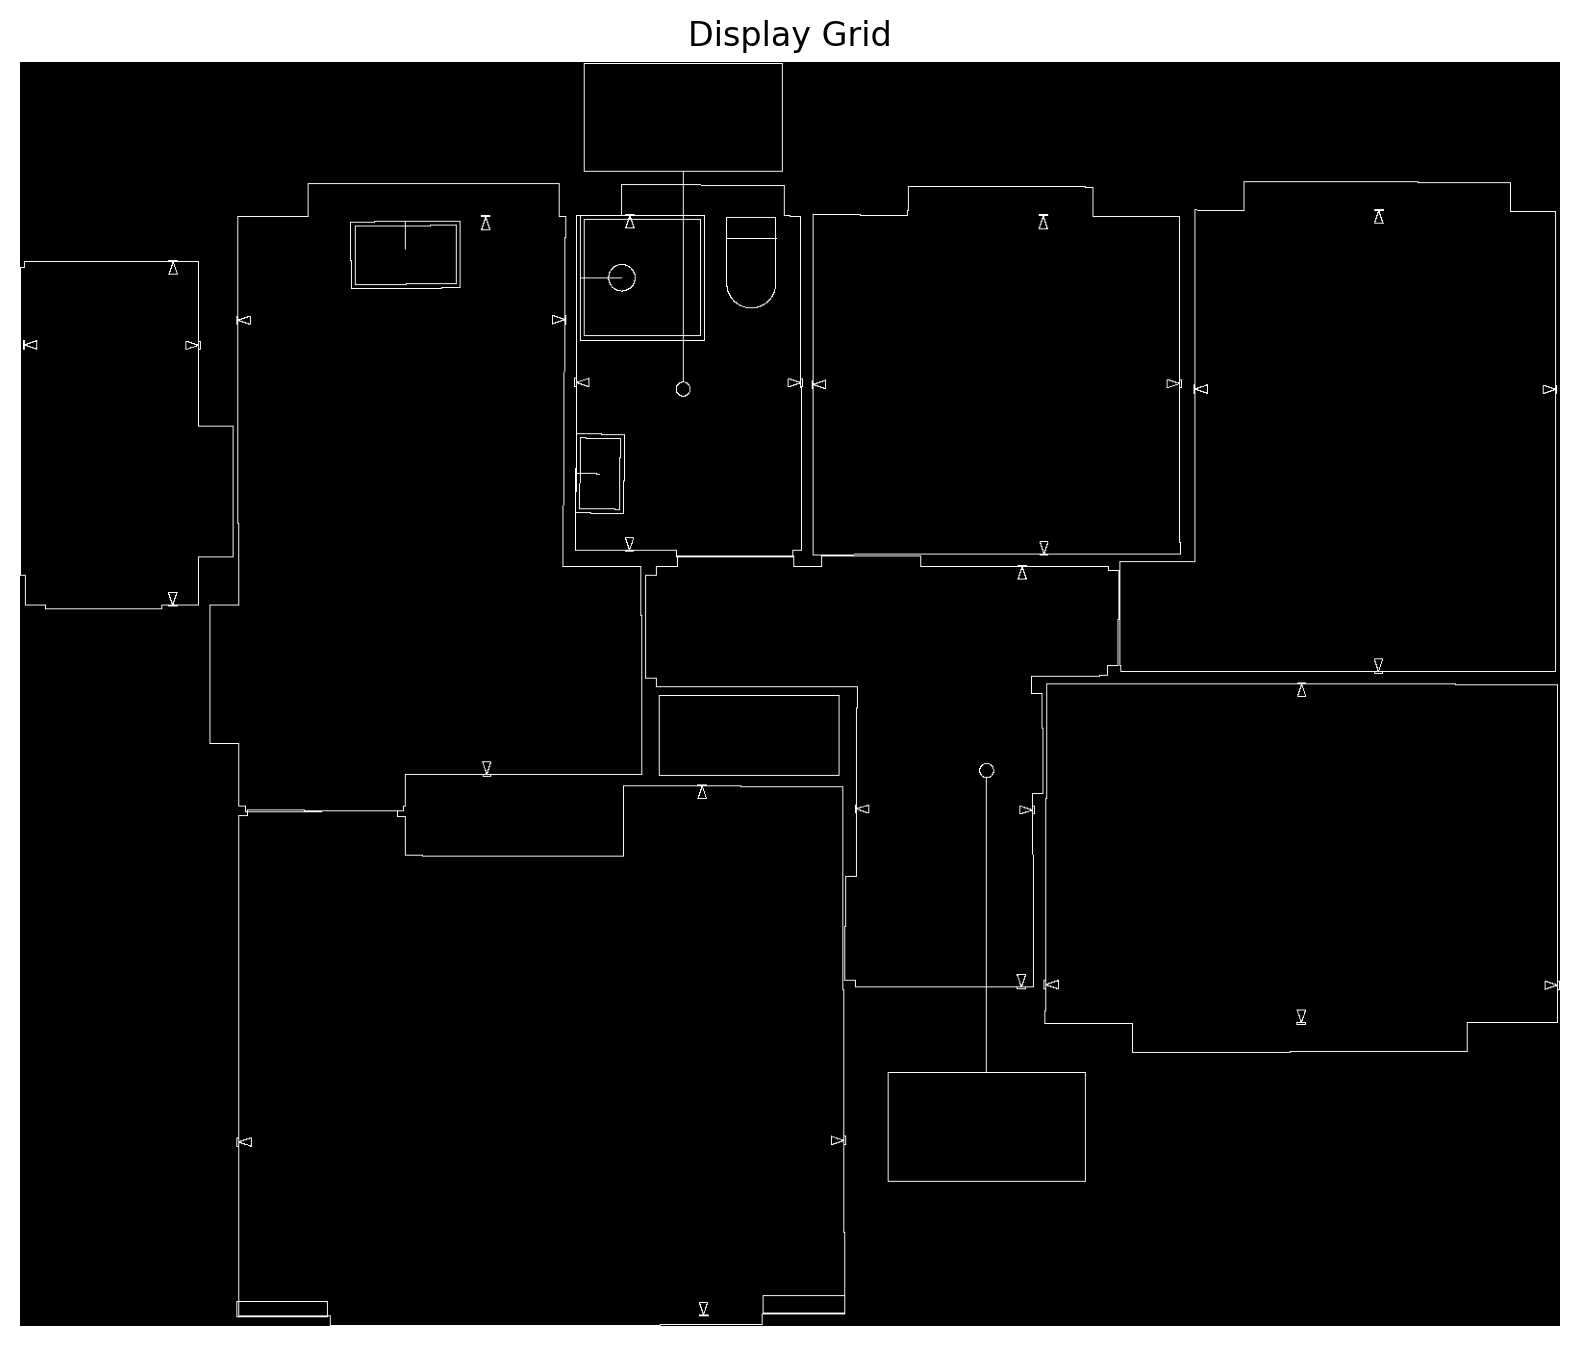
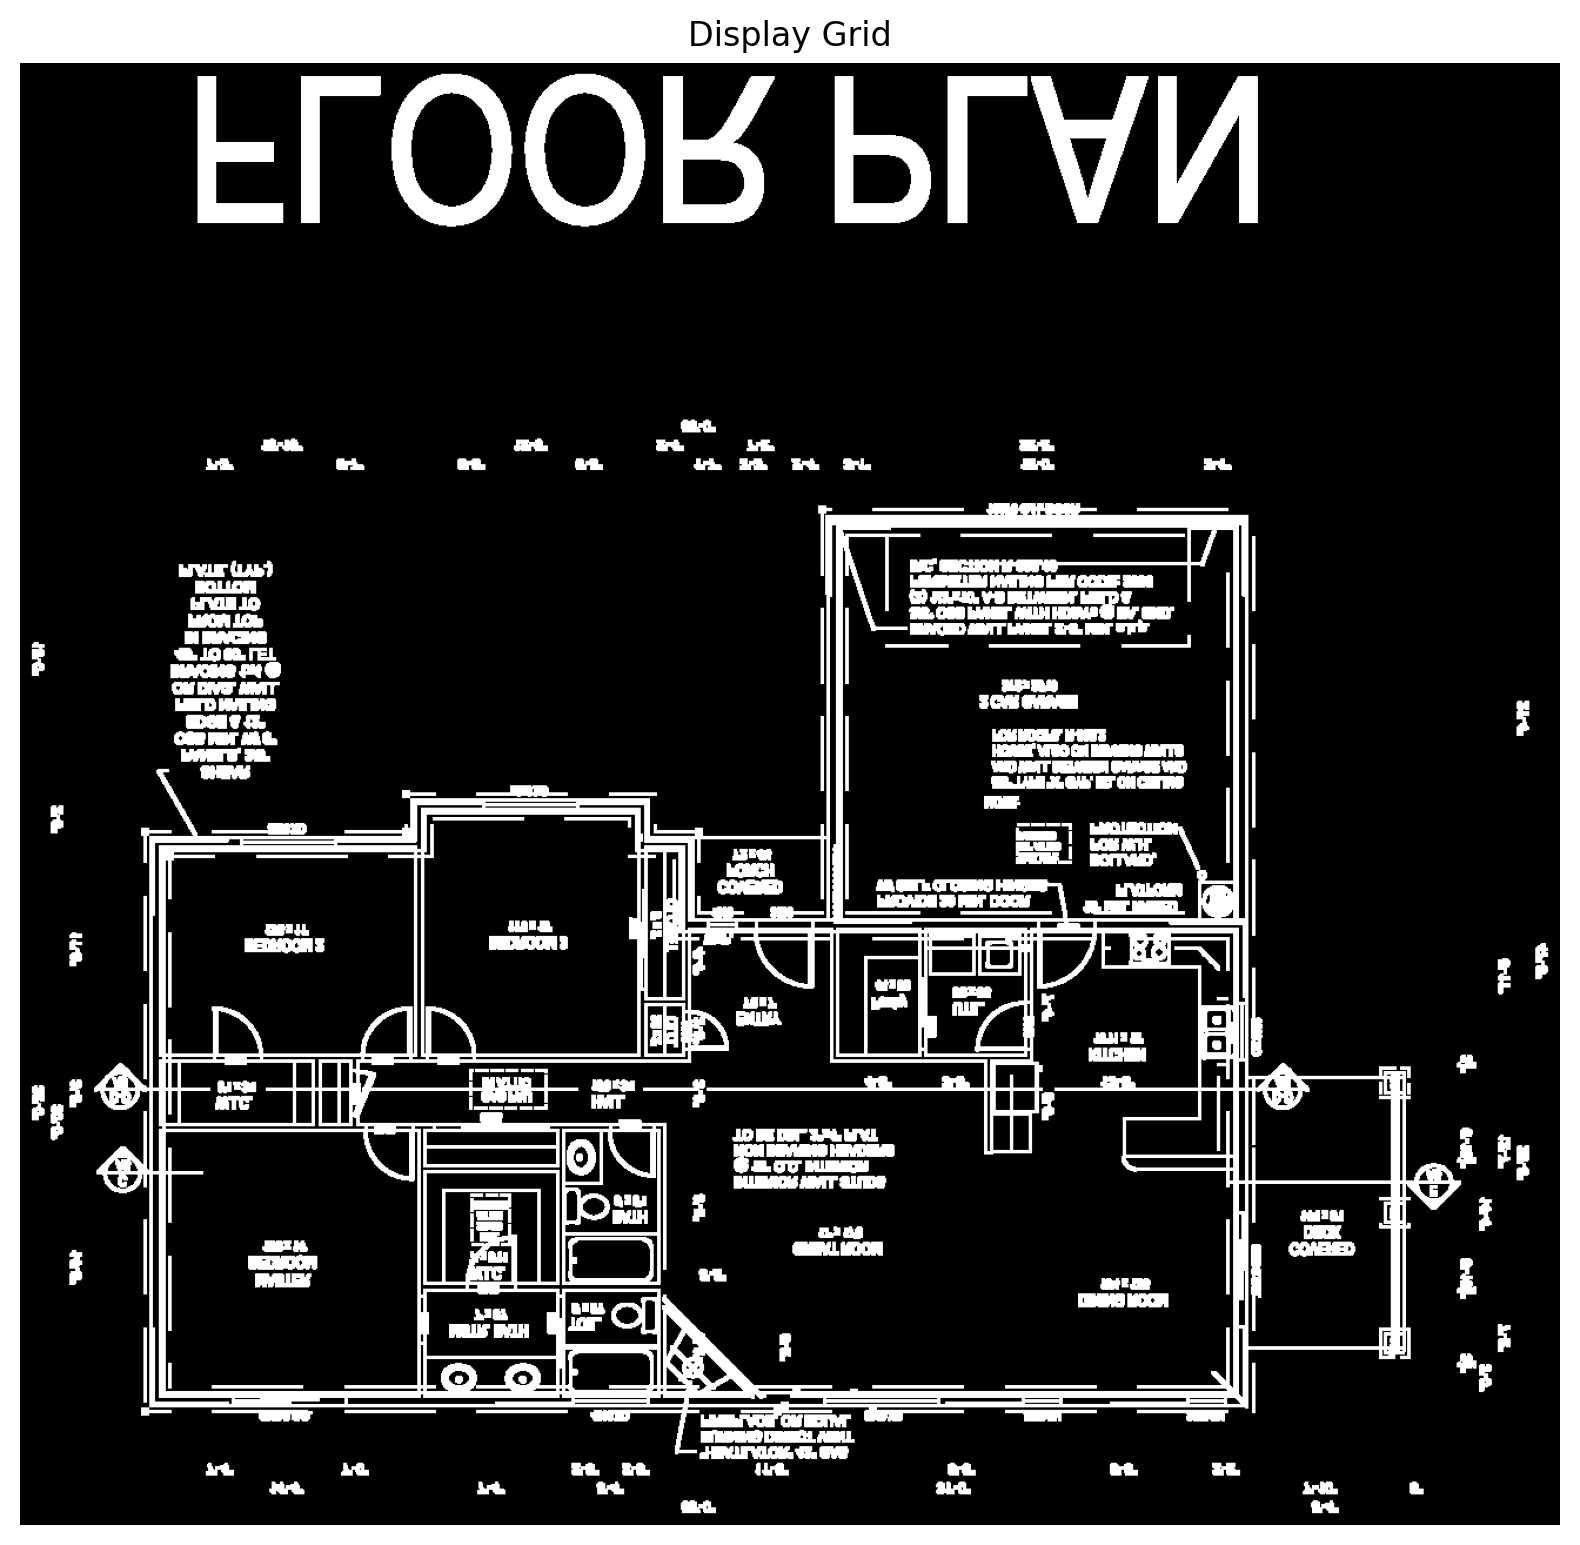
UI setup

diff --git a/templates/index.html b/templates/index.html
@@ -344,7 +344,7 @@
     <!-- Run -->
     <div class="card">
       <h2>Pipeline</h2>
-      <p style="font-size:13px;color:#718096;line-height:1.6;">Extracts 3D wall faces from the DXF, flattens them to 2D, and rasterizes a binary wall grid.</p>
+      <p style="font-size:13px;color:#718096;line-height:1.6;">Auto-detects DXF entity types and chooses the best strategy (vector or render) to produce a binary wall grid.</p>
       <button class="btn btn-primary" id="runBtn" onclick="runPipeline()">▶ Run Pipeline</button>
 
       <div class="status-box" id="statusBox"></div>
@@ -357,19 +357,35 @@
     <div class="card" id="downloadCard" style="display:none;">
       <h2>Download Outputs</h2>
       <div class="download-list">
-        <a class="download-item" href="/api/download/grid" download>
+        <a class="download-item" href="/api/download/grid_display" download>
           <span class="icon">🔢</span>
           <div>
+            <div class="name">grid_display.npy</div>
+            <div class="desc">High-res display grid (NumPy array)</div>
+          </div>
+          <span class="arrow">↓</span>
+        </a>
+        <a class="download-item" href="/api/download/meta_display" download>
+          <span class="icon">📋</span>
+          <div>
+            <div class="name">grid_display_meta.json</div>
+            <div class="desc">Display grid scale &amp; bounds metadata</div>
+          </div>
+          <span class="arrow">↓</span>
+        </a>
+        <a class="download-item" href="/api/download/grid" download>
+          <span class="icon">🗜</span>
+          <div>
             <div class="name">grid.npy</div>
-            <div class="desc">Binary wall grid (NumPy array)</div>
+            <div class="desc">Optimization grid (4× downsampled)</div>
           </div>
           <span class="arrow">↓</span>
         </a>
         <a class="download-item" href="/api/download/meta" download>
-          <span class="icon">📋</span>
+          <span class="icon">📄</span>
           <div>
             <div class="name">grid_meta.json</div>
-            <div class="desc">Scale, bounds &amp; crop metadata</div>
+            <div class="desc">Optimization grid metadata</div>
           </div>
           <span class="arrow">↓</span>
         </a>
@@ -381,13 +397,27 @@
   <!-- Right column: preview + meta -->
   <div class="preview-panel">
 
+    <!-- Preview toggle tabs -->
+    <div id="previewTabs" style="display:none; gap:8px; margin-bottom:-4px;">
+      <button onclick="switchPreview('display')" id="tabDisplay"
+        style="padding:6px 14px;border-radius:6px 6px 0 0;border:1px solid #2d3748;border-bottom:none;
+               background:#1a1f2e;color:#4facfe;font-size:12px;font-weight:600;cursor:pointer;">
+        Display
+      </button>
+      <button onclick="switchPreview('opt')" id="tabOpt"
+        style="padding:6px 14px;border-radius:6px 6px 0 0;border:1px solid #2d3748;border-bottom:none;
+               background:#0f1117;color:#718096;font-size:12px;font-weight:600;cursor:pointer;">
+        Optimization (4×↓)
+      </button>
+    </div>
+
     <div class="preview-wrap" id="previewWrap">
       <div class="placeholder" id="previewPlaceholder">
         <div class="big-icon">🏠</div>
         <p>Run the pipeline to see the wall grid preview</p>
       </div>
       <img id="previewImg" alt="Grid preview" style="display:none;" />
-      <span class="preview-label" id="previewLabel" style="display:none;">Grid Preview</span>
+      <span class="preview-label" id="previewLabel" style="display:none;">Display Grid</span>
     </div>
 
     <div class="legend" id="legendRow" style="display:none;">
@@ -498,8 +528,33 @@
       .catch(() => {});
   }
 
+  let activePreview = 'display';
+
+  function switchPreview(type) {
+    activePreview = type;
+    const img = document.getElementById('previewImg');
+    const label = document.getElementById('previewLabel');
+    if (type === 'display') {
+      img.src = '/api/preview?ts=' + Date.now();
+      label.textContent = 'Display Grid';
+      document.getElementById('tabDisplay').style.background = '#1a1f2e';
+      document.getElementById('tabDisplay').style.color = '#4facfe';
+      document.getElementById('tabOpt').style.background = '#0f1117';
+      document.getElementById('tabOpt').style.color = '#718096';
+    } else {
+      img.src = '/api/preview/opt?ts=' + Date.now();
+      label.textContent = 'Optimization Grid (4× downsampled)';
+      document.getElementById('tabOpt').style.background = '#1a1f2e';
+      document.getElementById('tabOpt').style.color = '#4facfe';
+      document.getElementById('tabDisplay').style.background = '#0f1117';
+      document.getElementById('tabDisplay').style.color = '#718096';
+    }
+  }
+
   function loadResults(data) {
-    // Show preview
+    // Show preview tabs and default to display preview
+    const tabs = document.getElementById('previewTabs');
+    tabs.style.display = 'flex';
     const img = document.getElementById('previewImg');
     img.src = '/api/preview?ts=' + Date.now();
     img.style.display = 'block';

diff --git a/app.py b/app.py
@@ -1,16 +1,17 @@
 import os
+import sys
 import json
 import threading
 import subprocess
-import time
 from flask import Flask, render_template, request, jsonify, send_file
 from werkzeug.utils import secure_filename
 
 app = Flask(__name__)
 app.config['MAX_CONTENT_LENGTH'] = 200 * 1024 * 1024  # 200 MB max upload
 
-UPLOAD_FOLDER = "."
 ALLOWED_EXTENSIONS = {"dxf"}
+
+current_dxf = None  # tracks the currently loaded DXF filename
 
 pipeline_status = {
     "running": False,
@@ -28,30 +29,20 @@ def allowed_file(filename):
 
 def run_pipeline(dxf_path):
     global pipeline_status
-    pipeline_status.update({"running": True, "done": False, "error": None, "progress": 0})
+    pipeline_status.update({"running": True, "done": False, "error": None, "progress": 10})
 
     try:
-        pipeline_status.update({"stage": "Extracting wall faces", "message": "Running flatten_3dface.py...", "progress": 20})
+        pipeline_status.update({
+            "stage": "Processing DXF",
+            "message": "Analysing entities and rasterizing floor plan…",
+            "progress": 30,
+        })
         result = subprocess.run(
-            ["python", "flatten_3dface.py"],
+            [sys.executable, "dxf_pipeline_general.py", dxf_path, "."],
             capture_output=True, text=True, cwd="."
         )
         if result.returncode != 0:
             raise RuntimeError(result.stderr or result.stdout)
-
-        extract_lines = [l for l in result.stdout.strip().splitlines() if l]
-        pipeline_status.update({
-            "stage": "Rasterizing grid",
-            "message": f"{extract_lines[-1] if extract_lines else 'Wall faces extracted'}. Rasterizing...",
-            "progress": 50
-        })
-
-        result2 = subprocess.run(
-            ["python", "rasterize_to_grid.py"],
-            capture_output=True, text=True, cwd="."
-        )
-        if result2.returncode != 0:
-            raise RuntimeError(result2.stderr or result2.stdout)
 
         pipeline_status.update({
             "running": False,
@@ -84,7 +75,7 @@ def api_status():
         and os.path.exists("grid_meta.json")
         and os.path.exists("grid_preview.png")
     )
-    dxf_exists = os.path.exists("house.dxf")
+    dxf_exists = current_dxf is not None and os.path.exists(current_dxf)
 
     meta = {}
     if os.path.exists("grid_meta.json"):
@@ -98,13 +89,14 @@ def api_status():
         "pipeline": pipeline_status,
         "results_ready": results_ready,
         "dxf_loaded": dxf_exists,
-        "dxf_filename": "house.dxf" if dxf_exists else None,
+        "dxf_filename": os.path.basename(current_dxf) if current_dxf else None,
         "meta": meta,
     })
 
 
 @app.route("/api/upload", methods=["POST"])
 def api_upload():
+    global current_dxf
     if "file" not in request.files:
         return jsonify({"error": "No file part"}), 400
     f = request.files["file"]
@@ -114,8 +106,8 @@ def api_upload():
         return jsonify({"error": "Only .dxf files are allowed"}), 400
 
     filename = secure_filename(f.filename)
-    save_path = "house.dxf"
-    f.save(save_path)
+    f.save(filename)
+    current_dxf = filename
     return jsonify({"success": True, "filename": filename})
 
 
@@ -124,19 +116,27 @@ def api_run():
     global pipeline_status
     if pipeline_status["running"]:
         return jsonify({"error": "Pipeline already running"}), 409
-    if not os.path.exists("house.dxf"):
+    if not current_dxf or not os.path.exists(current_dxf):
         return jsonify({"error": "No DXF file loaded. Please upload one first."}), 400
 
-    dxf_path = "house.dxf"
-    thread = threading.Thread(target=run_pipeline, args=(dxf_path,), daemon=True)
+    thread = threading.Thread(target=run_pipeline, args=(current_dxf,), daemon=True)
     thread.start()
     return jsonify({"started": True})
 
 
 @app.route("/api/preview")
 def api_preview():
-    if not os.path.exists("grid_preview.png"):
+    # Serve display-quality preview by default; fall back to optimization preview
+    path = "grid_display_preview.png" if os.path.exists("grid_display_preview.png") else "grid_preview.png"
+    if not os.path.exists(path):
         return jsonify({"error": "No preview available"}), 404
+    return send_file(path, mimetype="image/png")
+
+
+@app.route("/api/preview/opt")
+def api_preview_opt():
+    if not os.path.exists("grid_preview.png"):
+        return jsonify({"error": "No optimization preview available"}), 404
     return send_file("grid_preview.png", mimetype="image/png")
 
 
@@ -147,11 +147,25 @@ def download_grid():
     return send_file("grid.npy", as_attachment=True, download_name="grid.npy")
 
 
+@app.route("/api/download/grid_display")
+def download_grid_display():
+    if not os.path.exists("grid_display.npy"):
+        return jsonify({"error": "No display grid file available"}), 404
+    return send_file("grid_display.npy", as_attachment=True, download_name="grid_display.npy")
+
+
 @app.route("/api/download/meta")
 def download_meta():
     if not os.path.exists("grid_meta.json"):
         return jsonify({"error": "No metadata file available"}), 404
     return send_file("grid_meta.json", as_attachment=True, download_name="grid_meta.json")
+
+
+@app.route("/api/download/meta_display")
+def download_meta_display():
+    if not os.path.exists("grid_display_meta.json"):
+        return jsonify({"error": "No display metadata file available"}), 404
+    return send_file("grid_display_meta.json", as_attachment=True, download_name="grid_display_meta.json")
 
 
 if __name__ == "__main__":

diff --git a/dxf_pipeline_general.py b/dxf_pipeline_general.py
@@ -357,7 +357,13 @@ def render_fallback_to_grid(dxf_path: str, out_width=1400, thresh=245):
 
     fig.canvas.draw()
     w, h = fig.canvas.get_width_height()
-    img = np.frombuffer(fig.canvas.tostring_rgb(), dtype=np.uint8).reshape(h, w, 3)
+    try:
+        img = np.frombuffer(fig.canvas.tostring_rgb(), dtype=np.uint8).reshape(h, w, 3)
+    except AttributeError:
+        buf = np.frombuffer(fig.canvas.buffer_rgba(), dtype=np.uint8)
+        n_pixels = buf.size // 4
+        scale = int(round((n_pixels / (h * w)) ** 0.5))
+        img = buf.reshape(h * scale, w * scale, 4)[:, :, :3]
     plt.close(fig)
 
     gray = img.mean(axis=2)

diff --git a/README.md b/README.md
@@ -1,24 +1,75 @@
 # WiFi Planner – Grid Generation
 
 This module converts an architectural floor plan (DXF / SketchUp export)
-into a simulation-ready grid for indoor Wi-Fi planning.
+into a simulation-ready occupancy grid for indoor Wi-Fi planning.
 
-## Output
-- `grid.npy`  
-  Binary grid where:
-  - 1 = wall / obstacle
-  - 0 = free space
+## Outputs
 
-- `grid_meta.json`  
-  Metadata including grid scale and crop information.
+| File | Description |
+|---|---|
+| `grid_display.npy` | High-resolution binary wall grid |
+| `grid_display_meta.json` | Display grid scale, bounds & crop info |
+| `grid.npy` | Optimization grid (4× downsampled from display grid) |
+| `grid_meta.json` | Optimization grid metadata |
+| `grid_display_preview.png` | Visual preview of the display grid |
+| `grid_preview.png` | Visual preview of the optimization grid |
 
-## Pipeline
-1. Extract wall faces from DXF
-2. Flatten 3D faces to 2D
-3. Rasterize walls into a grid
-4. Remove noise (largest connected component)
-5. Crop grid to building bounds
+In all grids: `1` = wall / obstacle, `0` = free space.
 
-## Usage
+## Setup
+
+Requires Python 3. Install dependencies from the repo root:
+
 ```bash
-python rasterize_to_grid.py
+pip3 install -r requirements.txt
+```
+
+## Running via the Web UI (recommended)
+
+1. Start the Flask server:
+   ```bash
+   python3 app.py
+   ```
+2. Open **http://localhost:5000** in your browser.
+3. Drag and drop your `.dxf` floor plan onto the upload zone (or click to browse).
+4. Click **▶ Run Pipeline**. Progress is shown in real time.
+5. Once complete:
+   - The **preview panel** shows the wall grid. Toggle between **Display** (high-res) and **Optimization (4×↓)** views.
+   - The **Download Outputs** section provides all four output files.
+   - **Grid Metadata** shows grid dimensions and cell size.
+
+## Running via the command line
+
+The general pipeline script auto-detects DXF entity types and picks the best strategy:
+
+```bash
+python3 dxf_pipeline_general.py <your_file.dxf> .
+```
+
+Example:
+
+```bash
+python3 dxf_pipeline_general.py floorplan.dxf .
+```
+
+Outputs are written to the current directory.
+
+## Pipeline internals
+
+`dxf_pipeline_gener`dxf_pipeline_gener`dxf_pipeline_gener`dxf_pipelinategies:
+
+- **Vector** — used when the file contains `LINE`, `LWPOLYLINE`, `POLYLINE`, `ARC`, or `CIRCLE` entities without `INSERT` blocks. Samples geometry directly into the grid at an auto-calculated cell size.
+- **Render fallback** — used when `INSERT` (block reference) entities are present. Renders the full DXF via the ezdxf matplotlib backend and thresholds the resulting image into a binary grid.
+
+In both cases the pipeline then:
+1. Removes small disconnected noise components
+2. Crops the grid tightly to the building bounds with a small margin
+3. Saves a high-resolution display grid and a 4× downsampled optimization grid
+
+## Inspecting a DXF file
+
+```bash
+python3 inspect_dxf.py <your_file.dxf>
+```
+
+Prints entity type counts and suggests which pipeline strategy will be used.
